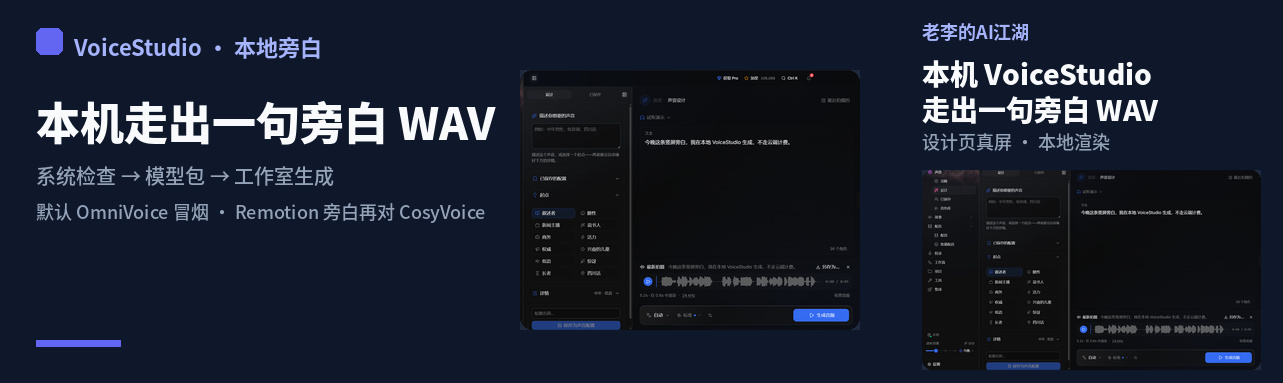
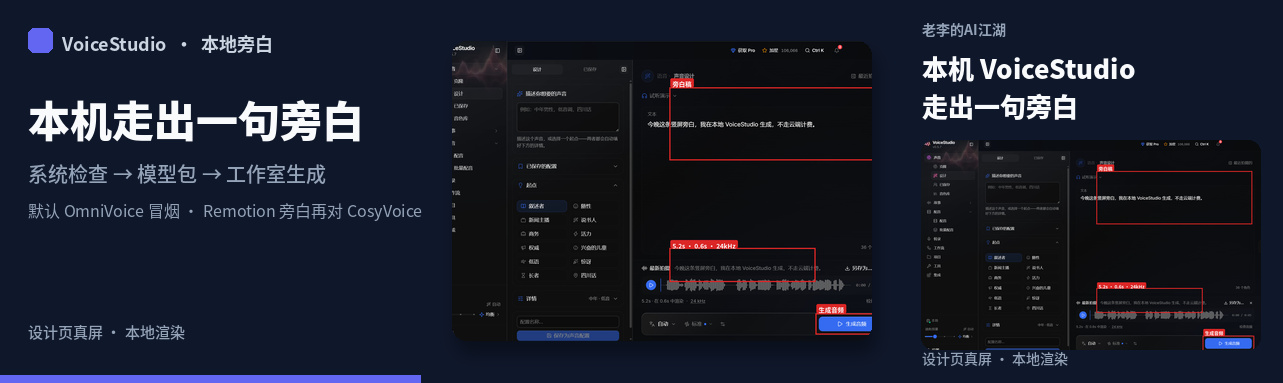
docs(titles): 标题技能重做 Flash + VoiceStudio 主推
- deepseek-flash-prompt-video: 一句 prompt 真能出片？Flash 给你的是可播 HTML，不是视频文件
- voicestudio-local-elevenlabs-alt: 不想每月付配音费？VoiceStudio 本地当晚出旁白（禁 WAV）
- VoiceStudio 封面重出去掉烙字 WAV；Flash 封面未改

diff --git a/pages/deepseek-flash-prompt-video/COPY-standalone.html b/pages/deepseek-flash-prompt-video/COPY-standalone.html
@@ -5,7 +5,7 @@
 <meta charset="utf-8">
 <meta name="viewport" content="width=device-width,initial-scale=1,viewport-fit=cover">
 <meta name="color-scheme" content="light">
-<title>一句 prompt，Flash 真吐可播 HTML；要视频文件还得你录浏览器</title>
+<title>一句 prompt 真能出片？Flash 给你的是可播 HTML，不是视频文件</title>
 <style>
   :root {
     --bg: #F1F5F9; --card: #FFFFFF; --ink: #0F172A; --muted: #64748B;
@@ -244,8 +244,8 @@
           <h3><span class="dot"></span>推荐标题</h3>
           <button type="button" class="btn btn-blue" onclick="cp(document.getElementById('rec').innerText,this)">复制推荐标题</button>
         </div>
-        <p id="rec" class="rec-title">一句 prompt，Flash 真吐可播 HTML；要视频文件还得你录浏览器</p>
-        <div class="score-line">综合评分 <strong>9.40</strong>／10</div>
+        <p id="rec" class="rec-title">一句 prompt 真能出片？Flash 给你的是可播 HTML，不是视频文件</p>
+        <div class="score-line">综合评分 <strong>9.30</strong>／10</div>
       </section>
 
       <section class="card cover-card">
@@ -259,7 +259,7 @@
           <h3><span class="dot"></span>其他标题（备选）</h3>
         </div>
         <p class="hint">数字为综合分（满分 10）。点左侧图标只复制标题正文，不含分数。</p>
-        <ol class="titles is-collapsed"><li class='title-row is-rec'><button type='button' class='btn-copy-ico' aria-label='复制' title='复制' onclick='cp("一句 prompt，Flash 真吐可播 HTML；要视频文件还得你录浏览器",this)'><svg xmlns='http://www.w3.org/2000/svg' width='14' height='14' viewBox='0 0 24 24' fill='none' stroke='currentColor' stroke-width='2' stroke-linecap='round' stroke-linejoin='round' aria-hidden='true'><rect x='9' y='9' width='13' height='13' rx='2'/><path d='M5 15H4a2 2 0 0 1-2-2V4a2 2 0 0 1 2-2h9a2 2 0 0 1 2 2v1'/></svg></button><span class='title-text'>一句 prompt，Flash 真吐可播 HTML；要视频文件还得你录浏览器</span><span class='title-meta'><span class='score'>9.40</span><span class='kind'>操作</span></span></li><li class='title-row'><button type='button' class='btn-copy-ico' aria-label='复制' title='复制' onclick='cp("分清代码动画和像素视频，Flash「出片」帖才不踩坑",this)'><svg xmlns='http://www.w3.org/2000/svg' width='14' height='14' viewBox='0 0 24 24' fill='none' stroke='currentColor' stroke-width='2' stroke-linecap='round' stroke-linejoin='round' aria-hidden='true'><rect x='9' y='9' width='13' height='13' rx='2'/><path d='M5 15H4a2 2 0 0 1-2-2V4a2 2 0 0 1 2-2h9a2 2 0 0 1 2 2v1'/></svg></button><span class='title-text'>分清代码动画和像素视频，Flash「出片」帖才不踩坑</span><span class='title-meta'><span class='score'>9.10</span><span class='kind'>因果</span></span></li><li class='title-row'><button type='button' class='btn-copy-ico' aria-label='复制' title='复制' onclick='cp("Magpie 接 deepseek-flash：单文件 HTML → 浏览器三步验收",this)'><svg xmlns='http://www.w3.org/2000/svg' width='14' height='14' viewBox='0 0 24 24' fill='none' stroke='currentColor' stroke-width='2' stroke-linecap='round' stroke-linejoin='round' aria-hidden='true'><rect x='9' y='9' width='13' height='13' rx='2'/><path d='M5 15H4a2 2 0 0 1-2-2V4a2 2 0 0 1 2-2h9a2 2 0 0 1 2 2v1'/></svg></button><span class='title-text'>Magpie 接 deepseek-flash：单文件 HTML → 浏览器三步验收</span><span class='title-meta'><span class='score'>8.90</span><span class='kind'>步骤</span></span></li><li class='title-row'><button type='button' class='btn-copy-ico' aria-label='复制' title='复制' onclick='cp("Flash 一句 prompt 出的是网页片，不是 Sora",this)'><svg xmlns='http://www.w3.org/2000/svg' width='14' height='14' viewBox='0 0 24 24' fill='none' stroke='currentColor' stroke-width='2' stroke-linecap='round' stroke-linejoin='round' aria-hidden='true'><rect x='9' y='9' width='13' height='13' rx='2'/><path d='M5 15H4a2 2 0 0 1-2-2V4a2 2 0 0 1 2-2h9a2 2 0 0 1 2 2v1'/></svg></button><span class='title-text'>Flash 一句 prompt 出的是网页片，不是 Sora</span><span class='title-meta'><span class='score'>8.70</span><span class='kind'>操作</span></span></li><li class='title-row'><button type='button' class='btn-copy-ico' aria-label='复制' title='复制' onclick='cp("社区两分钟游戏史很炫；今晚先验收十八秒周报痛点",this)'><svg xmlns='http://www.w3.org/2000/svg' width='14' height='14' viewBox='0 0 24 24' fill='none' stroke='currentColor' stroke-width='2' stroke-linecap='round' stroke-linejoin='round' aria-hidden='true'><rect x='9' y='9' width='13' height='13' rx='2'/><path d='M5 15H4a2 2 0 0 1-2-2V4a2 2 0 0 1 2-2h9a2 2 0 0 1 2 2v1'/></svg></button><span class='title-text'>社区两分钟游戏史很炫；今晚先验收十八秒周报痛点</span><span class='title-meta'><span class='score'>8.40</span><span class='kind'>对比</span></span></li><li class='title-row'><button type='button' class='btn-copy-ico' aria-label='复制' title='复制' onclick='cp("花叔有 skill 直出 MP4；纯 API 先只保证到 HTML",this)'><svg xmlns='http://www.w3.org/2000/svg' width='14' height='14' viewBox='0 0 24 24' fill='none' stroke='currentColor' stroke-width='2' stroke-linecap='round' stroke-linejoin='round' aria-hidden='true'><rect x='9' y='9' width='13' height='13' rx='2'/><path d='M5 15H4a2 2 0 0 1-2-2V4a2 2 0 0 1 2-2h9a2 2 0 0 1 2 2v1'/></svg></button><span class='title-text'>花叔有 skill 直出 MP4；纯 API 先只保证到 HTML</span><span class='title-meta'><span class='score'>8.20</span><span class='kind'>边界</span></span></li></ol>
+        <ol class="titles is-collapsed"><li class='title-row is-rec'><button type='button' class='btn-copy-ico' aria-label='复制' title='复制' onclick='cp("一句 prompt 真能出片？Flash 给你的是可播 HTML，不是视频文件",this)'><svg xmlns='http://www.w3.org/2000/svg' width='14' height='14' viewBox='0 0 24 24' fill='none' stroke='currentColor' stroke-width='2' stroke-linecap='round' stroke-linejoin='round' aria-hidden='true'><rect x='9' y='9' width='13' height='13' rx='2'/><path d='M5 15H4a2 2 0 0 1-2-2V4a2 2 0 0 1 2-2h9a2 2 0 0 1 2 2v1'/></svg></button><span class='title-text'>一句 prompt 真能出片？Flash 给你的是可播 HTML，不是视频文件</span><span class='title-meta'><span class='score'>9.30</span><span class='kind'>操作</span></span></li><li class='title-row'><button type='button' class='btn-copy-ico' aria-label='复制' title='复制' onclick='cp("以为 DeepSeek Flash 直接出视频？先看浏览器里能不能播",this)'><svg xmlns='http://www.w3.org/2000/svg' width='14' height='14' viewBox='0 0 24 24' fill='none' stroke='currentColor' stroke-width='2' stroke-linecap='round' stroke-linejoin='round' aria-hidden='true'><rect x='9' y='9' width='13' height='13' rx='2'/><path d='M5 15H4a2 2 0 0 1-2-2V4a2 2 0 0 1 2-2h9a2 2 0 0 1 2 2v1'/></svg></button><span class='title-text'>以为 DeepSeek Flash 直接出视频？先看浏览器里能不能播</span><span class='title-meta'><span class='score'>9.10</span><span class='kind'>因果</span></span></li><li class='title-row'><button type='button' class='btn-copy-ico' aria-label='复制' title='复制' onclick='cp("周报痛点短片今晚要交差？Flash 一句先吐可播 HTML",this)'><svg xmlns='http://www.w3.org/2000/svg' width='14' height='14' viewBox='0 0 24 24' fill='none' stroke='currentColor' stroke-width='2' stroke-linecap='round' stroke-linejoin='round' aria-hidden='true'><rect x='9' y='9' width='13' height='13' rx='2'/><path d='M5 15H4a2 2 0 0 1-2-2V4a2 2 0 0 1 2-2h9a2 2 0 0 1 2 2v1'/></svg></button><span class='title-text'>周报痛点短片今晚要交差？Flash 一句先吐可播 HTML</span><span class='title-meta'><span class='score'>8.95</span><span class='kind'>操作</span></span></li><li class='title-row'><button type='button' class='btn-copy-ico' aria-label='复制' title='复制' onclick='cp("DeepSeek Flash 一句 prompt，浏览器打开就能播的 HTML 片",this)'><svg xmlns='http://www.w3.org/2000/svg' width='14' height='14' viewBox='0 0 24 24' fill='none' stroke='currentColor' stroke-width='2' stroke-linecap='round' stroke-linejoin='round' aria-hidden='true'><rect x='9' y='9' width='13' height='13' rx='2'/><path d='M5 15H4a2 2 0 0 1-2-2V4a2 2 0 0 1 2-2h9a2 2 0 0 1 2 2v1'/></svg></button><span class='title-text'>DeepSeek Flash 一句 prompt，浏览器打开就能播的 HTML 片</span><span class='title-meta'><span class='score'>8.80</span><span class='kind'>稳妥</span></span></li><li class='title-row'><button type='button' class='btn-copy-ico' aria-label='复制' title='复制' onclick='cp("Flash「出片」先分清：代码动画 HTML，录屏才成视频文件",this)'><svg xmlns='http://www.w3.org/2000/svg' width='14' height='14' viewBox='0 0 24 24' fill='none' stroke='currentColor' stroke-width='2' stroke-linecap='round' stroke-linejoin='round' aria-hidden='true'><rect x='9' y='9' width='13' height='13' rx='2'/><path d='M5 15H4a2 2 0 0 1-2-2V4a2 2 0 0 1 2-2h9a2 2 0 0 1 2 2v1'/></svg></button><span class='title-text'>Flash「出片」先分清：代码动画 HTML，录屏才成视频文件</span><span class='title-meta'><span class='score'>8.60</span><span class='kind'>因果</span></span></li><li class='title-row'><button type='button' class='btn-copy-ico' aria-label='复制' title='复制' onclick='cp("Magpie 接 Flash：单文件 HTML → 浏览器打开 → 再谈录屏",this)'><svg xmlns='http://www.w3.org/2000/svg' width='14' height='14' viewBox='0 0 24 24' fill='none' stroke='currentColor' stroke-width='2' stroke-linecap='round' stroke-linejoin='round' aria-hidden='true'><rect x='9' y='9' width='13' height='13' rx='2'/><path d='M5 15H4a2 2 0 0 1-2-2V4a2 2 0 0 1 2-2h9a2 2 0 0 1 2 2v1'/></svg></button><span class='title-text'>Magpie 接 Flash：单文件 HTML → 浏览器打开 → 再谈录屏</span><span class='title-meta'><span class='score'>8.45</span><span class='kind'>步骤</span></span></li><li class='title-row'><button type='button' class='btn-copy-ico' aria-label='复制' title='复制' onclick='cp("花叔能直出 MP4；纯 Flash API 今晚先保证到 HTML",this)'><svg xmlns='http://www.w3.org/2000/svg' width='14' height='14' viewBox='0 0 24 24' fill='none' stroke='currentColor' stroke-width='2' stroke-linecap='round' stroke-linejoin='round' aria-hidden='true'><rect x='9' y='9' width='13' height='13' rx='2'/><path d='M5 15H4a2 2 0 0 1-2-2V4a2 2 0 0 1 2-2h9a2 2 0 0 1 2 2v1'/></svg></button><span class='title-text'>花叔能直出 MP4；纯 Flash API 今晚先保证到 HTML</span><span class='title-meta'><span class='score'>8.30</span><span class='kind'>边界</span></span></li><li class='title-row'><button type='button' class='btn-copy-ico' aria-label='复制' title='复制' onclick='cp("社区两分钟游戏史很炫；今晚先验收十八秒周报痛点页",this)'><svg xmlns='http://www.w3.org/2000/svg' width='14' height='14' viewBox='0 0 24 24' fill='none' stroke='currentColor' stroke-width='2' stroke-linecap='round' stroke-linejoin='round' aria-hidden='true'><rect x='9' y='9' width='13' height='13' rx='2'/><path d='M5 15H4a2 2 0 0 1-2-2V4a2 2 0 0 1 2-2h9a2 2 0 0 1 2 2v1'/></svg></button><span class='title-text'>社区两分钟游戏史很炫；今晚先验收十八秒周报痛点页</span><span class='title-meta'><span class='score'>8.20</span><span class='kind'>对照</span></span></li></ol>
       </section>
 
       <section class="card">

diff --git a/public/deepseek-flash-prompt-video/index.html b/public/deepseek-flash-prompt-video/index.html
@@ -5,7 +5,7 @@
 <meta charset="utf-8">
 <meta name="viewport" content="width=device-width,initial-scale=1,viewport-fit=cover">
 <meta name="color-scheme" content="light">
-<title>一句 prompt，Flash 真吐可播 HTML；要视频文件还得你录浏览器</title>
+<title>一句 prompt 真能出片？Flash 给你的是可播 HTML，不是视频文件</title>
 <style>
   :root {
     --bg: #F1F5F9; --card: #FFFFFF; --ink: #0F172A; --muted: #64748B;
@@ -244,8 +244,8 @@
           <h3><span class="dot"></span>推荐标题</h3>
           <button type="button" class="btn btn-blue" onclick="cp(document.getElementById('rec').innerText,this)">复制推荐标题</button>
         </div>
-        <p id="rec" class="rec-title">一句 prompt，Flash 真吐可播 HTML；要视频文件还得你录浏览器</p>
-        <div class="score-line">综合评分 <strong>9.40</strong>／10</div>
+        <p id="rec" class="rec-title">一句 prompt 真能出片？Flash 给你的是可播 HTML，不是视频文件</p>
+        <div class="score-line">综合评分 <strong>9.30</strong>／10</div>
       </section>
 
       <section class="card cover-card">
@@ -259,7 +259,7 @@
           <h3><span class="dot"></span>其他标题（备选）</h3>
         </div>
         <p class="hint">数字为综合分（满分 10）。点左侧图标只复制标题正文，不含分数。</p>
-        <ol class="titles is-collapsed"><li class='title-row is-rec'><button type='button' class='btn-copy-ico' aria-label='复制' title='复制' onclick='cp("一句 prompt，Flash 真吐可播 HTML；要视频文件还得你录浏览器",this)'><svg xmlns='http://www.w3.org/2000/svg' width='14' height='14' viewBox='0 0 24 24' fill='none' stroke='currentColor' stroke-width='2' stroke-linecap='round' stroke-linejoin='round' aria-hidden='true'><rect x='9' y='9' width='13' height='13' rx='2'/><path d='M5 15H4a2 2 0 0 1-2-2V4a2 2 0 0 1 2-2h9a2 2 0 0 1 2 2v1'/></svg></button><span class='title-text'>一句 prompt，Flash 真吐可播 HTML；要视频文件还得你录浏览器</span><span class='title-meta'><span class='score'>9.40</span><span class='kind'>操作</span></span></li><li class='title-row'><button type='button' class='btn-copy-ico' aria-label='复制' title='复制' onclick='cp("分清代码动画和像素视频，Flash「出片」帖才不踩坑",this)'><svg xmlns='http://www.w3.org/2000/svg' width='14' height='14' viewBox='0 0 24 24' fill='none' stroke='currentColor' stroke-width='2' stroke-linecap='round' stroke-linejoin='round' aria-hidden='true'><rect x='9' y='9' width='13' height='13' rx='2'/><path d='M5 15H4a2 2 0 0 1-2-2V4a2 2 0 0 1 2-2h9a2 2 0 0 1 2 2v1'/></svg></button><span class='title-text'>分清代码动画和像素视频，Flash「出片」帖才不踩坑</span><span class='title-meta'><span class='score'>9.10</span><span class='kind'>因果</span></span></li><li class='title-row'><button type='button' class='btn-copy-ico' aria-label='复制' title='复制' onclick='cp("Magpie 接 deepseek-flash：单文件 HTML → 浏览器三步验收",this)'><svg xmlns='http://www.w3.org/2000/svg' width='14' height='14' viewBox='0 0 24 24' fill='none' stroke='currentColor' stroke-width='2' stroke-linecap='round' stroke-linejoin='round' aria-hidden='true'><rect x='9' y='9' width='13' height='13' rx='2'/><path d='M5 15H4a2 2 0 0 1-2-2V4a2 2 0 0 1 2-2h9a2 2 0 0 1 2 2v1'/></svg></button><span class='title-text'>Magpie 接 deepseek-flash：单文件 HTML → 浏览器三步验收</span><span class='title-meta'><span class='score'>8.90</span><span class='kind'>步骤</span></span></li><li class='title-row'><button type='button' class='btn-copy-ico' aria-label='复制' title='复制' onclick='cp("Flash 一句 prompt 出的是网页片，不是 Sora",this)'><svg xmlns='http://www.w3.org/2000/svg' width='14' height='14' viewBox='0 0 24 24' fill='none' stroke='currentColor' stroke-width='2' stroke-linecap='round' stroke-linejoin='round' aria-hidden='true'><rect x='9' y='9' width='13' height='13' rx='2'/><path d='M5 15H4a2 2 0 0 1-2-2V4a2 2 0 0 1 2-2h9a2 2 0 0 1 2 2v1'/></svg></button><span class='title-text'>Flash 一句 prompt 出的是网页片，不是 Sora</span><span class='title-meta'><span class='score'>8.70</span><span class='kind'>操作</span></span></li><li class='title-row'><button type='button' class='btn-copy-ico' aria-label='复制' title='复制' onclick='cp("社区两分钟游戏史很炫；今晚先验收十八秒周报痛点",this)'><svg xmlns='http://www.w3.org/2000/svg' width='14' height='14' viewBox='0 0 24 24' fill='none' stroke='currentColor' stroke-width='2' stroke-linecap='round' stroke-linejoin='round' aria-hidden='true'><rect x='9' y='9' width='13' height='13' rx='2'/><path d='M5 15H4a2 2 0 0 1-2-2V4a2 2 0 0 1 2-2h9a2 2 0 0 1 2 2v1'/></svg></button><span class='title-text'>社区两分钟游戏史很炫；今晚先验收十八秒周报痛点</span><span class='title-meta'><span class='score'>8.40</span><span class='kind'>对比</span></span></li><li class='title-row'><button type='button' class='btn-copy-ico' aria-label='复制' title='复制' onclick='cp("花叔有 skill 直出 MP4；纯 API 先只保证到 HTML",this)'><svg xmlns='http://www.w3.org/2000/svg' width='14' height='14' viewBox='0 0 24 24' fill='none' stroke='currentColor' stroke-width='2' stroke-linecap='round' stroke-linejoin='round' aria-hidden='true'><rect x='9' y='9' width='13' height='13' rx='2'/><path d='M5 15H4a2 2 0 0 1-2-2V4a2 2 0 0 1 2-2h9a2 2 0 0 1 2 2v1'/></svg></button><span class='title-text'>花叔有 skill 直出 MP4；纯 API 先只保证到 HTML</span><span class='title-meta'><span class='score'>8.20</span><span class='kind'>边界</span></span></li></ol>
+        <ol class="titles is-collapsed"><li class='title-row is-rec'><button type='button' class='btn-copy-ico' aria-label='复制' title='复制' onclick='cp("一句 prompt 真能出片？Flash 给你的是可播 HTML，不是视频文件",this)'><svg xmlns='http://www.w3.org/2000/svg' width='14' height='14' viewBox='0 0 24 24' fill='none' stroke='currentColor' stroke-width='2' stroke-linecap='round' stroke-linejoin='round' aria-hidden='true'><rect x='9' y='9' width='13' height='13' rx='2'/><path d='M5 15H4a2 2 0 0 1-2-2V4a2 2 0 0 1 2-2h9a2 2 0 0 1 2 2v1'/></svg></button><span class='title-text'>一句 prompt 真能出片？Flash 给你的是可播 HTML，不是视频文件</span><span class='title-meta'><span class='score'>9.30</span><span class='kind'>操作</span></span></li><li class='title-row'><button type='button' class='btn-copy-ico' aria-label='复制' title='复制' onclick='cp("以为 DeepSeek Flash 直接出视频？先看浏览器里能不能播",this)'><svg xmlns='http://www.w3.org/2000/svg' width='14' height='14' viewBox='0 0 24 24' fill='none' stroke='currentColor' stroke-width='2' stroke-linecap='round' stroke-linejoin='round' aria-hidden='true'><rect x='9' y='9' width='13' height='13' rx='2'/><path d='M5 15H4a2 2 0 0 1-2-2V4a2 2 0 0 1 2-2h9a2 2 0 0 1 2 2v1'/></svg></button><span class='title-text'>以为 DeepSeek Flash 直接出视频？先看浏览器里能不能播</span><span class='title-meta'><span class='score'>9.10</span><span class='kind'>因果</span></span></li><li class='title-row'><button type='button' class='btn-copy-ico' aria-label='复制' title='复制' onclick='cp("周报痛点短片今晚要交差？Flash 一句先吐可播 HTML",this)'><svg xmlns='http://www.w3.org/2000/svg' width='14' height='14' viewBox='0 0 24 24' fill='none' stroke='currentColor' stroke-width='2' stroke-linecap='round' stroke-linejoin='round' aria-hidden='true'><rect x='9' y='9' width='13' height='13' rx='2'/><path d='M5 15H4a2 2 0 0 1-2-2V4a2 2 0 0 1 2-2h9a2 2 0 0 1 2 2v1'/></svg></button><span class='title-text'>周报痛点短片今晚要交差？Flash 一句先吐可播 HTML</span><span class='title-meta'><span class='score'>8.95</span><span class='kind'>操作</span></span></li><li class='title-row'><button type='button' class='btn-copy-ico' aria-label='复制' title='复制' onclick='cp("DeepSeek Flash 一句 prompt，浏览器打开就能播的 HTML 片",this)'><svg xmlns='http://www.w3.org/2000/svg' width='14' height='14' viewBox='0 0 24 24' fill='none' stroke='currentColor' stroke-width='2' stroke-linecap='round' stroke-linejoin='round' aria-hidden='true'><rect x='9' y='9' width='13' height='13' rx='2'/><path d='M5 15H4a2 2 0 0 1-2-2V4a2 2 0 0 1 2-2h9a2 2 0 0 1 2 2v1'/></svg></button><span class='title-text'>DeepSeek Flash 一句 prompt，浏览器打开就能播的 HTML 片</span><span class='title-meta'><span class='score'>8.80</span><span class='kind'>稳妥</span></span></li><li class='title-row'><button type='button' class='btn-copy-ico' aria-label='复制' title='复制' onclick='cp("Flash「出片」先分清：代码动画 HTML，录屏才成视频文件",this)'><svg xmlns='http://www.w3.org/2000/svg' width='14' height='14' viewBox='0 0 24 24' fill='none' stroke='currentColor' stroke-width='2' stroke-linecap='round' stroke-linejoin='round' aria-hidden='true'><rect x='9' y='9' width='13' height='13' rx='2'/><path d='M5 15H4a2 2 0 0 1-2-2V4a2 2 0 0 1 2-2h9a2 2 0 0 1 2 2v1'/></svg></button><span class='title-text'>Flash「出片」先分清：代码动画 HTML，录屏才成视频文件</span><span class='title-meta'><span class='score'>8.60</span><span class='kind'>因果</span></span></li><li class='title-row'><button type='button' class='btn-copy-ico' aria-label='复制' title='复制' onclick='cp("Magpie 接 Flash：单文件 HTML → 浏览器打开 → 再谈录屏",this)'><svg xmlns='http://www.w3.org/2000/svg' width='14' height='14' viewBox='0 0 24 24' fill='none' stroke='currentColor' stroke-width='2' stroke-linecap='round' stroke-linejoin='round' aria-hidden='true'><rect x='9' y='9' width='13' height='13' rx='2'/><path d='M5 15H4a2 2 0 0 1-2-2V4a2 2 0 0 1 2-2h9a2 2 0 0 1 2 2v1'/></svg></button><span class='title-text'>Magpie 接 Flash：单文件 HTML → 浏览器打开 → 再谈录屏</span><span class='title-meta'><span class='score'>8.45</span><span class='kind'>步骤</span></span></li><li class='title-row'><button type='button' class='btn-copy-ico' aria-label='复制' title='复制' onclick='cp("花叔能直出 MP4；纯 Flash API 今晚先保证到 HTML",this)'><svg xmlns='http://www.w3.org/2000/svg' width='14' height='14' viewBox='0 0 24 24' fill='none' stroke='currentColor' stroke-width='2' stroke-linecap='round' stroke-linejoin='round' aria-hidden='true'><rect x='9' y='9' width='13' height='13' rx='2'/><path d='M5 15H4a2 2 0 0 1-2-2V4a2 2 0 0 1 2-2h9a2 2 0 0 1 2 2v1'/></svg></button><span class='title-text'>花叔能直出 MP4；纯 Flash API 今晚先保证到 HTML</span><span class='title-meta'><span class='score'>8.30</span><span class='kind'>边界</span></span></li><li class='title-row'><button type='button' class='btn-copy-ico' aria-label='复制' title='复制' onclick='cp("社区两分钟游戏史很炫；今晚先验收十八秒周报痛点页",this)'><svg xmlns='http://www.w3.org/2000/svg' width='14' height='14' viewBox='0 0 24 24' fill='none' stroke='currentColor' stroke-width='2' stroke-linecap='round' stroke-linejoin='round' aria-hidden='true'><rect x='9' y='9' width='13' height='13' rx='2'/><path d='M5 15H4a2 2 0 0 1-2-2V4a2 2 0 0 1 2-2h9a2 2 0 0 1 2 2v1'/></svg></button><span class='title-text'>社区两分钟游戏史很炫；今晚先验收十八秒周报痛点页</span><span class='title-meta'><span class='score'>8.20</span><span class='kind'>对照</span></span></li></ol>
       </section>
 
       <section class="card">

diff --git a/pages/voicestudio-local-elevenlabs-alt/COPY-standalone.html b/pages/voicestudio-local-elevenlabs-alt/COPY-standalone.html
@@ -5,7 +5,7 @@
 <meta charset="utf-8">
 <meta name="viewport" content="width=device-width,initial-scale=1,viewport-fit=cover">
 <meta name="color-scheme" content="light">
-<title>本机 VoiceStudio 过完检查，设计页走出一句旁白 WAV</title>
+<title>不想每月付配音费？VoiceStudio 本地当晚出旁白</title>
 <style>
   :root {
     --bg: #F1F5F9; --card: #FFFFFF; --ink: #0F172A; --muted: #64748B;
@@ -244,8 +244,8 @@
           <h3><span class="dot"></span>推荐标题</h3>
           <button type="button" class="btn btn-blue" onclick="cp(document.getElementById('rec').innerText,this)">复制推荐标题</button>
         </div>
-        <p id="rec" class="rec-title">本机 VoiceStudio 过完检查，设计页走出一句旁白 WAV</p>
-        <div class="score-line">综合评分 <strong>9.35</strong>／10</div>
+        <p id="rec" class="rec-title">不想每月付配音费？VoiceStudio 本地当晚出旁白</p>
+        <div class="score-line">综合评分 <strong>9.30</strong>／10</div>
       </section>
 
       <section class="card cover-card">
@@ -259,7 +259,7 @@
           <h3><span class="dot"></span>其他标题（备选）</h3>
         </div>
         <p class="hint">数字为综合分（满分 10）。点左侧图标只复制标题正文，不含分数。</p>
-        <ol class="titles is-collapsed"><li class='title-row is-rec'><button type='button' class='btn-copy-ico' aria-label='复制' title='复制' onclick='cp("本机 VoiceStudio 过完检查，设计页走出一句旁白 WAV",this)'><svg xmlns='http://www.w3.org/2000/svg' width='14' height='14' viewBox='0 0 24 24' fill='none' stroke='currentColor' stroke-width='2' stroke-linecap='round' stroke-linejoin='round' aria-hidden='true'><rect x='9' y='9' width='13' height='13' rx='2'/><path d='M5 15H4a2 2 0 0 1-2-2V4a2 2 0 0 1 2-2h9a2 2 0 0 1 2 2v1'/></svg></button><span class='title-text'>本机 VoiceStudio 过完检查，设计页走出一句旁白 WAV</span><span class='title-meta'><span class='score'>9.35</span><span class='kind'>操作</span></span></li><li class='title-row'><button type='button' class='btn-copy-ico' aria-label='复制' title='复制' onclick='cp("磁盘不够 Continue 会灰：迁好数据目录再进工作室",this)'><svg xmlns='http://www.w3.org/2000/svg' width='14' height='14' viewBox='0 0 24 24' fill='none' stroke='currentColor' stroke-width='2' stroke-linecap='round' stroke-linejoin='round' aria-hidden='true'><rect x='9' y='9' width='13' height='13' rx='2'/><path d='M5 15H4a2 2 0 0 1-2-2V4a2 2 0 0 1 2-2h9a2 2 0 0 1 2 2v1'/></svg></button><span class='title-text'>磁盘不够 Continue 会灰：迁好数据目录再进工作室</span><span class='title-meta'><span class='score'>9.05</span><span class='kind'>因果</span></span></li><li class='title-row'><button type='button' class='btn-copy-ico' aria-label='复制' title='复制' onclick='cp("五步验收｜系统检查→模型包→隐私→叙述者→生成音频",this)'><svg xmlns='http://www.w3.org/2000/svg' width='14' height='14' viewBox='0 0 24 24' fill='none' stroke='currentColor' stroke-width='2' stroke-linecap='round' stroke-linejoin='round' aria-hidden='true'><rect x='9' y='9' width='13' height='13' rx='2'/><path d='M5 15H4a2 2 0 0 1-2-2V4a2 2 0 0 1 2-2h9a2 2 0 0 1 2 2v1'/></svg></button><span class='title-text'>五步验收｜系统检查→模型包→隐私→叙述者→生成音频</span><span class='title-meta'><span class='score'>8.90</span><span class='kind'>步骤</span></span></li><li class='title-row'><button type='button' class='btn-copy-ico' aria-label='复制' title='复制' onclick='cp("先点「不用了，谢谢」：VoiceStudio 隐私页才能继续",this)'><svg xmlns='http://www.w3.org/2000/svg' width='14' height='14' viewBox='0 0 24 24' fill='none' stroke='currentColor' stroke-width='2' stroke-linecap='round' stroke-linejoin='round' aria-hidden='true'><rect x='9' y='9' width='13' height='13' rx='2'/><path d='M5 15H4a2 2 0 0 1-2-2V4a2 2 0 0 1 2-2h9a2 2 0 0 1 2 2v1'/></svg></button><span class='title-text'>先点「不用了，谢谢」：VoiceStudio 隐私页才能继续</span><span class='title-meta'><span class='score'>8.65</span><span class='kind'>操作</span></span></li><li class='title-row'><button type='button' class='btn-copy-ico' aria-label='复制' title='复制' onclick='cp("默认 OmniVoice 冒烟；Remotion 旁白再换 CosyVoice",this)'><svg xmlns='http://www.w3.org/2000/svg' width='14' height='14' viewBox='0 0 24 24' fill='none' stroke='currentColor' stroke-width='2' stroke-linecap='round' stroke-linejoin='round' aria-hidden='true'><rect x='9' y='9' width='13' height='13' rx='2'/><path d='M5 15H4a2 2 0 0 1-2-2V4a2 2 0 0 1 2-2h9a2 2 0 0 1 2 2v1'/></svg></button><span class='title-text'>默认 OmniVoice 冒烟；Remotion 旁白再换 CosyVoice</span><span class='title-meta'><span class='score'>8.40</span><span class='kind'>对照</span></span></li><li class='title-row'><button type='button' class='btn-copy-ico' aria-label='复制' title='复制' onclick='cp("本地旁白能出 WAV；AGPL 管应用、模型权重另论",this)'><svg xmlns='http://www.w3.org/2000/svg' width='14' height='14' viewBox='0 0 24 24' fill='none' stroke='currentColor' stroke-width='2' stroke-linecap='round' stroke-linejoin='round' aria-hidden='true'><rect x='9' y='9' width='13' height='13' rx='2'/><path d='M5 15H4a2 2 0 0 1-2-2V4a2 2 0 0 1 2-2h9a2 2 0 0 1 2 2v1'/></svg></button><span class='title-text'>本地旁白能出 WAV；AGPL 管应用、模型权重另论</span><span class='title-meta'><span class='score'>8.20</span><span class='kind'>边界</span></span></li></ol>
+        <ol class="titles is-collapsed"><li class='title-row is-rec'><button type='button' class='btn-copy-ico' aria-label='复制' title='复制' onclick='cp("不想每月付配音费？VoiceStudio 本地当晚出旁白",this)'><svg xmlns='http://www.w3.org/2000/svg' width='14' height='14' viewBox='0 0 24 24' fill='none' stroke='currentColor' stroke-width='2' stroke-linecap='round' stroke-linejoin='round' aria-hidden='true'><rect x='9' y='9' width='13' height='13' rx='2'/><path d='M5 15H4a2 2 0 0 1-2-2V4a2 2 0 0 1 2-2h9a2 2 0 0 1 2 2v1'/></svg></button><span class='title-text'>不想每月付配音费？VoiceStudio 本地当晚出旁白</span><span class='title-meta'><span class='score'>9.30</span><span class='kind'>操作</span></span></li><li class='title-row'><button type='button' class='btn-copy-ico' aria-label='复制' title='复制' onclick='cp("短片旁白还在掏云端钱？本机 VoiceStudio 当晚出一句旁白",this)'><svg xmlns='http://www.w3.org/2000/svg' width='14' height='14' viewBox='0 0 24 24' fill='none' stroke='currentColor' stroke-width='2' stroke-linecap='round' stroke-linejoin='round' aria-hidden='true'><rect x='9' y='9' width='13' height='13' rx='2'/><path d='M5 15H4a2 2 0 0 1-2-2V4a2 2 0 0 1 2-2h9a2 2 0 0 1 2 2v1'/></svg></button><span class='title-text'>短片旁白还在掏云端钱？本机 VoiceStudio 当晚出一句旁白</span><span class='title-meta'><span class='score'>9.10</span><span class='kind'>操作</span></span></li><li class='title-row'><button type='button' class='btn-copy-ico' aria-label='复制' title='复制' onclick='cp("Remotion 旁白还差一段音？VoiceStudio 本机走出一句旁白",this)'><svg xmlns='http://www.w3.org/2000/svg' width='14' height='14' viewBox='0 0 24 24' fill='none' stroke='currentColor' stroke-width='2' stroke-linecap='round' stroke-linejoin='round' aria-hidden='true'><rect x='9' y='9' width='13' height='13' rx='2'/><path d='M5 15H4a2 2 0 0 1-2-2V4a2 2 0 0 1 2-2h9a2 2 0 0 1 2 2v1'/></svg></button><span class='title-text'>Remotion 旁白还差一段音？VoiceStudio 本机走出一句旁白</span><span class='title-meta'><span class='score'>8.95</span><span class='kind'>操作</span></span></li><li class='title-row'><button type='button' class='btn-copy-ico' aria-label='复制' title='复制' onclick='cp("装开 VoiceStudio，本机设计页走出一句旁白",this)'><svg xmlns='http://www.w3.org/2000/svg' width='14' height='14' viewBox='0 0 24 24' fill='none' stroke='currentColor' stroke-width='2' stroke-linecap='round' stroke-linejoin='round' aria-hidden='true'><rect x='9' y='9' width='13' height='13' rx='2'/><path d='M5 15H4a2 2 0 0 1-2-2V4a2 2 0 0 1 2-2h9a2 2 0 0 1 2 2v1'/></svg></button><span class='title-text'>装开 VoiceStudio，本机设计页走出一句旁白</span><span class='title-meta'><span class='score'>8.80</span><span class='kind'>稳妥</span></span></li><li class='title-row'><button type='button' class='btn-copy-ico' aria-label='复制' title='复制' onclick='cp("VoiceStudio 本机生成旁白，当晚能拖进短片用",this)'><svg xmlns='http://www.w3.org/2000/svg' width='14' height='14' viewBox='0 0 24 24' fill='none' stroke='currentColor' stroke-width='2' stroke-linecap='round' stroke-linejoin='round' aria-hidden='true'><rect x='9' y='9' width='13' height='13' rx='2'/><path d='M5 15H4a2 2 0 0 1-2-2V4a2 2 0 0 1 2-2h9a2 2 0 0 1 2 2v1'/></svg></button><span class='title-text'>VoiceStudio 本机生成旁白，当晚能拖进短片用</span><span class='title-meta'><span class='score'>8.65</span><span class='kind'>稳妥</span></span></li><li class='title-row'><button type='button' class='btn-copy-ico' aria-label='复制' title='复制' onclick='cp("VoiceStudio 隐私页先点「不用了，谢谢」，才能进工作室出旁白",this)'><svg xmlns='http://www.w3.org/2000/svg' width='14' height='14' viewBox='0 0 24 24' fill='none' stroke='currentColor' stroke-width='2' stroke-linecap='round' stroke-linejoin='round' aria-hidden='true'><rect x='9' y='9' width='13' height='13' rx='2'/><path d='M5 15H4a2 2 0 0 1-2-2V4a2 2 0 0 1 2-2h9a2 2 0 0 1 2 2v1'/></svg></button><span class='title-text'>VoiceStudio 隐私页先点「不用了，谢谢」，才能进工作室出旁白</span><span class='title-meta'><span class='score'>8.50</span><span class='kind'>步骤</span></span></li><li class='title-row'><button type='button' class='btn-copy-ico' aria-label='复制' title='复制' onclick='cp("磁盘不够进不了 VoiceStudio？先迁数据目录再生成旁白",this)'><svg xmlns='http://www.w3.org/2000/svg' width='14' height='14' viewBox='0 0 24 24' fill='none' stroke='currentColor' stroke-width='2' stroke-linecap='round' stroke-linejoin='round' aria-hidden='true'><rect x='9' y='9' width='13' height='13' rx='2'/><path d='M5 15H4a2 2 0 0 1-2-2V4a2 2 0 0 1 2-2h9a2 2 0 0 1 2 2v1'/></svg></button><span class='title-text'>磁盘不够进不了 VoiceStudio？先迁数据目录再生成旁白</span><span class='title-meta'><span class='score'>8.35</span><span class='kind'>因果</span></span></li><li class='title-row'><button type='button' class='btn-copy-ico' aria-label='复制' title='复制' onclick='cp("本机 VoiceStudio：检查→模型→隐私→叙述者→生成一句旁白",this)'><svg xmlns='http://www.w3.org/2000/svg' width='14' height='14' viewBox='0 0 24 24' fill='none' stroke='currentColor' stroke-width='2' stroke-linecap='round' stroke-linejoin='round' aria-hidden='true'><rect x='9' y='9' width='13' height='13' rx='2'/><path d='M5 15H4a2 2 0 0 1-2-2V4a2 2 0 0 1 2-2h9a2 2 0 0 1 2 2v1'/></svg></button><span class='title-text'>本机 VoiceStudio：检查→模型→隐私→叙述者→生成一句旁白</span><span class='title-meta'><span class='score'>8.20</span><span class='kind'>步骤</span></span></li></ol>
       </section>
 
       <section class="card">

diff --git a/public/voicestudio-local-elevenlabs-alt/index.html b/public/voicestudio-local-elevenlabs-alt/index.html
@@ -5,7 +5,7 @@
 <meta charset="utf-8">
 <meta name="viewport" content="width=device-width,initial-scale=1,viewport-fit=cover">
 <meta name="color-scheme" content="light">
-<title>本机 VoiceStudio 过完检查，设计页走出一句旁白 WAV</title>
+<title>不想每月付配音费？VoiceStudio 本地当晚出旁白</title>
 <style>
   :root {
     --bg: #F1F5F9; --card: #FFFFFF; --ink: #0F172A; --muted: #64748B;
@@ -244,8 +244,8 @@
           <h3><span class="dot"></span>推荐标题</h3>
           <button type="button" class="btn btn-blue" onclick="cp(document.getElementById('rec').innerText,this)">复制推荐标题</button>
         </div>
-        <p id="rec" class="rec-title">本机 VoiceStudio 过完检查，设计页走出一句旁白 WAV</p>
-        <div class="score-line">综合评分 <strong>9.35</strong>／10</div>
+        <p id="rec" class="rec-title">不想每月付配音费？VoiceStudio 本地当晚出旁白</p>
+        <div class="score-line">综合评分 <strong>9.30</strong>／10</div>
       </section>
 
       <section class="card cover-card">
@@ -259,7 +259,7 @@
           <h3><span class="dot"></span>其他标题（备选）</h3>
         </div>
         <p class="hint">数字为综合分（满分 10）。点左侧图标只复制标题正文，不含分数。</p>
-        <ol class="titles is-collapsed"><li class='title-row is-rec'><button type='button' class='btn-copy-ico' aria-label='复制' title='复制' onclick='cp("本机 VoiceStudio 过完检查，设计页走出一句旁白 WAV",this)'><svg xmlns='http://www.w3.org/2000/svg' width='14' height='14' viewBox='0 0 24 24' fill='none' stroke='currentColor' stroke-width='2' stroke-linecap='round' stroke-linejoin='round' aria-hidden='true'><rect x='9' y='9' width='13' height='13' rx='2'/><path d='M5 15H4a2 2 0 0 1-2-2V4a2 2 0 0 1 2-2h9a2 2 0 0 1 2 2v1'/></svg></button><span class='title-text'>本机 VoiceStudio 过完检查，设计页走出一句旁白 WAV</span><span class='title-meta'><span class='score'>9.35</span><span class='kind'>操作</span></span></li><li class='title-row'><button type='button' class='btn-copy-ico' aria-label='复制' title='复制' onclick='cp("磁盘不够 Continue 会灰：迁好数据目录再进工作室",this)'><svg xmlns='http://www.w3.org/2000/svg' width='14' height='14' viewBox='0 0 24 24' fill='none' stroke='currentColor' stroke-width='2' stroke-linecap='round' stroke-linejoin='round' aria-hidden='true'><rect x='9' y='9' width='13' height='13' rx='2'/><path d='M5 15H4a2 2 0 0 1-2-2V4a2 2 0 0 1 2-2h9a2 2 0 0 1 2 2v1'/></svg></button><span class='title-text'>磁盘不够 Continue 会灰：迁好数据目录再进工作室</span><span class='title-meta'><span class='score'>9.05</span><span class='kind'>因果</span></span></li><li class='title-row'><button type='button' class='btn-copy-ico' aria-label='复制' title='复制' onclick='cp("五步验收｜系统检查→模型包→隐私→叙述者→生成音频",this)'><svg xmlns='http://www.w3.org/2000/svg' width='14' height='14' viewBox='0 0 24 24' fill='none' stroke='currentColor' stroke-width='2' stroke-linecap='round' stroke-linejoin='round' aria-hidden='true'><rect x='9' y='9' width='13' height='13' rx='2'/><path d='M5 15H4a2 2 0 0 1-2-2V4a2 2 0 0 1 2-2h9a2 2 0 0 1 2 2v1'/></svg></button><span class='title-text'>五步验收｜系统检查→模型包→隐私→叙述者→生成音频</span><span class='title-meta'><span class='score'>8.90</span><span class='kind'>步骤</span></span></li><li class='title-row'><button type='button' class='btn-copy-ico' aria-label='复制' title='复制' onclick='cp("先点「不用了，谢谢」：VoiceStudio 隐私页才能继续",this)'><svg xmlns='http://www.w3.org/2000/svg' width='14' height='14' viewBox='0 0 24 24' fill='none' stroke='currentColor' stroke-width='2' stroke-linecap='round' stroke-linejoin='round' aria-hidden='true'><rect x='9' y='9' width='13' height='13' rx='2'/><path d='M5 15H4a2 2 0 0 1-2-2V4a2 2 0 0 1 2-2h9a2 2 0 0 1 2 2v1'/></svg></button><span class='title-text'>先点「不用了，谢谢」：VoiceStudio 隐私页才能继续</span><span class='title-meta'><span class='score'>8.65</span><span class='kind'>操作</span></span></li><li class='title-row'><button type='button' class='btn-copy-ico' aria-label='复制' title='复制' onclick='cp("默认 OmniVoice 冒烟；Remotion 旁白再换 CosyVoice",this)'><svg xmlns='http://www.w3.org/2000/svg' width='14' height='14' viewBox='0 0 24 24' fill='none' stroke='currentColor' stroke-width='2' stroke-linecap='round' stroke-linejoin='round' aria-hidden='true'><rect x='9' y='9' width='13' height='13' rx='2'/><path d='M5 15H4a2 2 0 0 1-2-2V4a2 2 0 0 1 2-2h9a2 2 0 0 1 2 2v1'/></svg></button><span class='title-text'>默认 OmniVoice 冒烟；Remotion 旁白再换 CosyVoice</span><span class='title-meta'><span class='score'>8.40</span><span class='kind'>对照</span></span></li><li class='title-row'><button type='button' class='btn-copy-ico' aria-label='复制' title='复制' onclick='cp("本地旁白能出 WAV；AGPL 管应用、模型权重另论",this)'><svg xmlns='http://www.w3.org/2000/svg' width='14' height='14' viewBox='0 0 24 24' fill='none' stroke='currentColor' stroke-width='2' stroke-linecap='round' stroke-linejoin='round' aria-hidden='true'><rect x='9' y='9' width='13' height='13' rx='2'/><path d='M5 15H4a2 2 0 0 1-2-2V4a2 2 0 0 1 2-2h9a2 2 0 0 1 2 2v1'/></svg></button><span class='title-text'>本地旁白能出 WAV；AGPL 管应用、模型权重另论</span><span class='title-meta'><span class='score'>8.20</span><span class='kind'>边界</span></span></li></ol>
+        <ol class="titles is-collapsed"><li class='title-row is-rec'><button type='button' class='btn-copy-ico' aria-label='复制' title='复制' onclick='cp("不想每月付配音费？VoiceStudio 本地当晚出旁白",this)'><svg xmlns='http://www.w3.org/2000/svg' width='14' height='14' viewBox='0 0 24 24' fill='none' stroke='currentColor' stroke-width='2' stroke-linecap='round' stroke-linejoin='round' aria-hidden='true'><rect x='9' y='9' width='13' height='13' rx='2'/><path d='M5 15H4a2 2 0 0 1-2-2V4a2 2 0 0 1 2-2h9a2 2 0 0 1 2 2v1'/></svg></button><span class='title-text'>不想每月付配音费？VoiceStudio 本地当晚出旁白</span><span class='title-meta'><span class='score'>9.30</span><span class='kind'>操作</span></span></li><li class='title-row'><button type='button' class='btn-copy-ico' aria-label='复制' title='复制' onclick='cp("短片旁白还在掏云端钱？本机 VoiceStudio 当晚出一句旁白",this)'><svg xmlns='http://www.w3.org/2000/svg' width='14' height='14' viewBox='0 0 24 24' fill='none' stroke='currentColor' stroke-width='2' stroke-linecap='round' stroke-linejoin='round' aria-hidden='true'><rect x='9' y='9' width='13' height='13' rx='2'/><path d='M5 15H4a2 2 0 0 1-2-2V4a2 2 0 0 1 2-2h9a2 2 0 0 1 2 2v1'/></svg></button><span class='title-text'>短片旁白还在掏云端钱？本机 VoiceStudio 当晚出一句旁白</span><span class='title-meta'><span class='score'>9.10</span><span class='kind'>操作</span></span></li><li class='title-row'><button type='button' class='btn-copy-ico' aria-label='复制' title='复制' onclick='cp("Remotion 旁白还差一段音？VoiceStudio 本机走出一句旁白",this)'><svg xmlns='http://www.w3.org/2000/svg' width='14' height='14' viewBox='0 0 24 24' fill='none' stroke='currentColor' stroke-width='2' stroke-linecap='round' stroke-linejoin='round' aria-hidden='true'><rect x='9' y='9' width='13' height='13' rx='2'/><path d='M5 15H4a2 2 0 0 1-2-2V4a2 2 0 0 1 2-2h9a2 2 0 0 1 2 2v1'/></svg></button><span class='title-text'>Remotion 旁白还差一段音？VoiceStudio 本机走出一句旁白</span><span class='title-meta'><span class='score'>8.95</span><span class='kind'>操作</span></span></li><li class='title-row'><button type='button' class='btn-copy-ico' aria-label='复制' title='复制' onclick='cp("装开 VoiceStudio，本机设计页走出一句旁白",this)'><svg xmlns='http://www.w3.org/2000/svg' width='14' height='14' viewBox='0 0 24 24' fill='none' stroke='currentColor' stroke-width='2' stroke-linecap='round' stroke-linejoin='round' aria-hidden='true'><rect x='9' y='9' width='13' height='13' rx='2'/><path d='M5 15H4a2 2 0 0 1-2-2V4a2 2 0 0 1 2-2h9a2 2 0 0 1 2 2v1'/></svg></button><span class='title-text'>装开 VoiceStudio，本机设计页走出一句旁白</span><span class='title-meta'><span class='score'>8.80</span><span class='kind'>稳妥</span></span></li><li class='title-row'><button type='button' class='btn-copy-ico' aria-label='复制' title='复制' onclick='cp("VoiceStudio 本机生成旁白，当晚能拖进短片用",this)'><svg xmlns='http://www.w3.org/2000/svg' width='14' height='14' viewBox='0 0 24 24' fill='none' stroke='currentColor' stroke-width='2' stroke-linecap='round' stroke-linejoin='round' aria-hidden='true'><rect x='9' y='9' width='13' height='13' rx='2'/><path d='M5 15H4a2 2 0 0 1-2-2V4a2 2 0 0 1 2-2h9a2 2 0 0 1 2 2v1'/></svg></button><span class='title-text'>VoiceStudio 本机生成旁白，当晚能拖进短片用</span><span class='title-meta'><span class='score'>8.65</span><span class='kind'>稳妥</span></span></li><li class='title-row'><button type='button' class='btn-copy-ico' aria-label='复制' title='复制' onclick='cp("VoiceStudio 隐私页先点「不用了，谢谢」，才能进工作室出旁白",this)'><svg xmlns='http://www.w3.org/2000/svg' width='14' height='14' viewBox='0 0 24 24' fill='none' stroke='currentColor' stroke-width='2' stroke-linecap='round' stroke-linejoin='round' aria-hidden='true'><rect x='9' y='9' width='13' height='13' rx='2'/><path d='M5 15H4a2 2 0 0 1-2-2V4a2 2 0 0 1 2-2h9a2 2 0 0 1 2 2v1'/></svg></button><span class='title-text'>VoiceStudio 隐私页先点「不用了，谢谢」，才能进工作室出旁白</span><span class='title-meta'><span class='score'>8.50</span><span class='kind'>步骤</span></span></li><li class='title-row'><button type='button' class='btn-copy-ico' aria-label='复制' title='复制' onclick='cp("磁盘不够进不了 VoiceStudio？先迁数据目录再生成旁白",this)'><svg xmlns='http://www.w3.org/2000/svg' width='14' height='14' viewBox='0 0 24 24' fill='none' stroke='currentColor' stroke-width='2' stroke-linecap='round' stroke-linejoin='round' aria-hidden='true'><rect x='9' y='9' width='13' height='13' rx='2'/><path d='M5 15H4a2 2 0 0 1-2-2V4a2 2 0 0 1 2-2h9a2 2 0 0 1 2 2v1'/></svg></button><span class='title-text'>磁盘不够进不了 VoiceStudio？先迁数据目录再生成旁白</span><span class='title-meta'><span class='score'>8.35</span><span class='kind'>因果</span></span></li><li class='title-row'><button type='button' class='btn-copy-ico' aria-label='复制' title='复制' onclick='cp("本机 VoiceStudio：检查→模型→隐私→叙述者→生成一句旁白",this)'><svg xmlns='http://www.w3.org/2000/svg' width='14' height='14' viewBox='0 0 24 24' fill='none' stroke='currentColor' stroke-width='2' stroke-linecap='round' stroke-linejoin='round' aria-hidden='true'><rect x='9' y='9' width='13' height='13' rx='2'/><path d='M5 15H4a2 2 0 0 1-2-2V4a2 2 0 0 1 2-2h9a2 2 0 0 1 2 2v1'/></svg></button><span class='title-text'>本机 VoiceStudio：检查→模型→隐私→叙述者→生成一句旁白</span><span class='title-meta'><span class='score'>8.20</span><span class='kind'>步骤</span></span></li></ol>
       </section>
 
       <section class="card">

diff --git a/pages/index.html b/pages/index.html
@@ -19,14 +19,14 @@
     <li>
       <a class="row" href="./voicestudio-local-elevenlabs-alt/">
         <time datetime="2026-11-10">2026-11-10</time>
-        <span class="title">本机 VoiceStudio 过完检查，设计页走出一句旁白 WAV</span>
+        <span class="title">不想每月付配音费？VoiceStudio 本地当晚出旁白</span>
         <span class="slug">voicestudio-local-elevenlabs-alt</span>
       </a>
     </li>
     <li>
       <a class="row" href="./deepseek-flash-prompt-video/">
         <time datetime="2026-11-10">2026-11-10</time>
-        <span class="title">一句 prompt，Flash 真吐可播 HTML；要视频文件还得你录浏览器</span>
+        <span class="title">一句 prompt 真能出片？Flash 给你的是可播 HTML，不是视频文件</span>
         <span class="slug">deepseek-flash-prompt-video</span>
       </a>
     </li>

diff --git a/public/index.html b/public/index.html
@@ -19,14 +19,14 @@
     <li>
       <a class="row" href="./voicestudio-local-elevenlabs-alt/">
         <time datetime="2026-11-10">2026-11-10</time>
-        <span class="title">本机 VoiceStudio 过完检查，设计页走出一句旁白 WAV</span>
+        <span class="title">不想每月付配音费？VoiceStudio 本地当晚出旁白</span>
         <span class="slug">voicestudio-local-elevenlabs-alt</span>
       </a>
     </li>
     <li>
       <a class="row" href="./deepseek-flash-prompt-video/">
         <time datetime="2026-11-10">2026-11-10</time>
-        <span class="title">一句 prompt，Flash 真吐可播 HTML；要视频文件还得你录浏览器</span>
+        <span class="title">一句 prompt 真能出片？Flash 给你的是可播 HTML，不是视频文件</span>
         <span class="slug">deepseek-flash-prompt-video</span>
       </a>
     </li>
